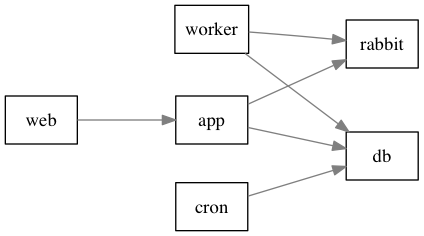
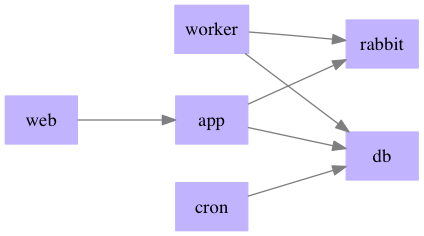
new color

diff --git a/draw_compose/draw_compose.py b/draw_compose/draw_compose.py
@@ -5,7 +5,9 @@ template = \
  digraph {{
     graph [rankdir=LR];
     node [label="\N",
-        shape=box
+        shape=box,
+        style=filled,
+        color=".7 .3 1.0"
     ];
     edge [color=gray50,
 	arrowhead=normal,

diff --git a/readme.md b/readme.md
@@ -26,3 +26,7 @@ Renders by default `docker-compose.yml` in the current folder.
 Or a specific docker file can be rendered:
 
     $ draw-compose -i fixtures/real.yml -o docker-specific.png
+
+Released under an Apache License 2.0
+
+Creator: Alexis Benoist @Alexis_Benoist
